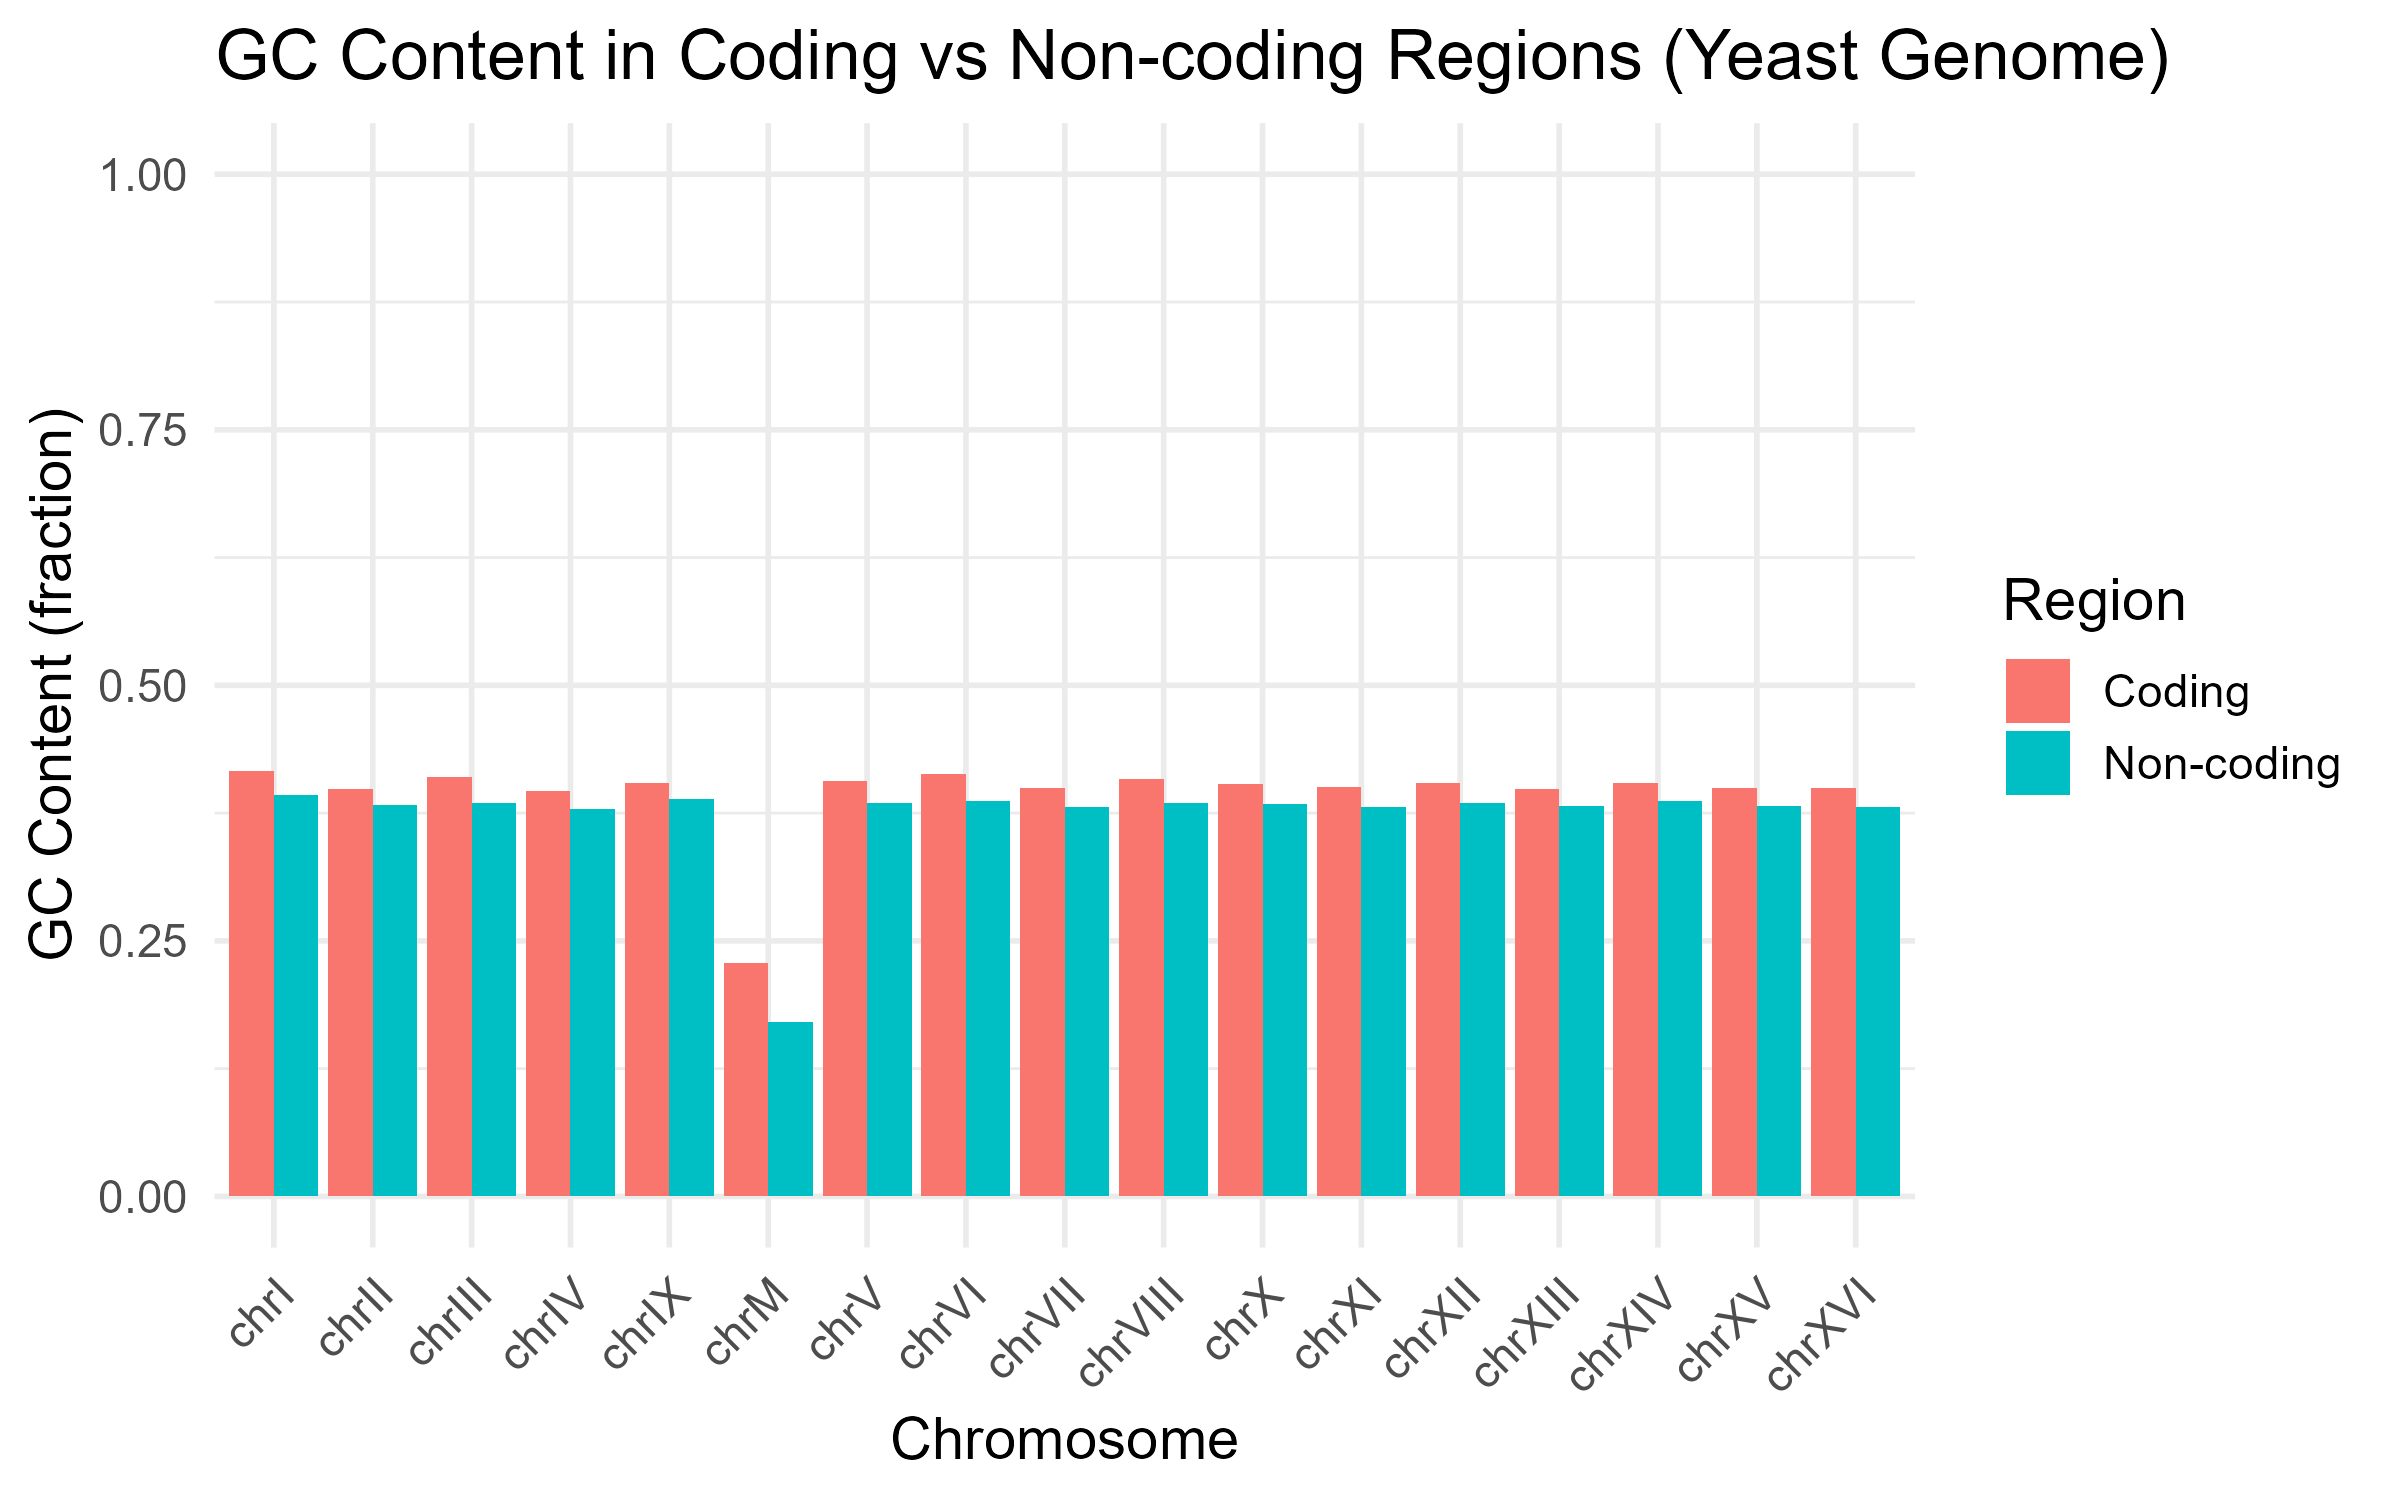
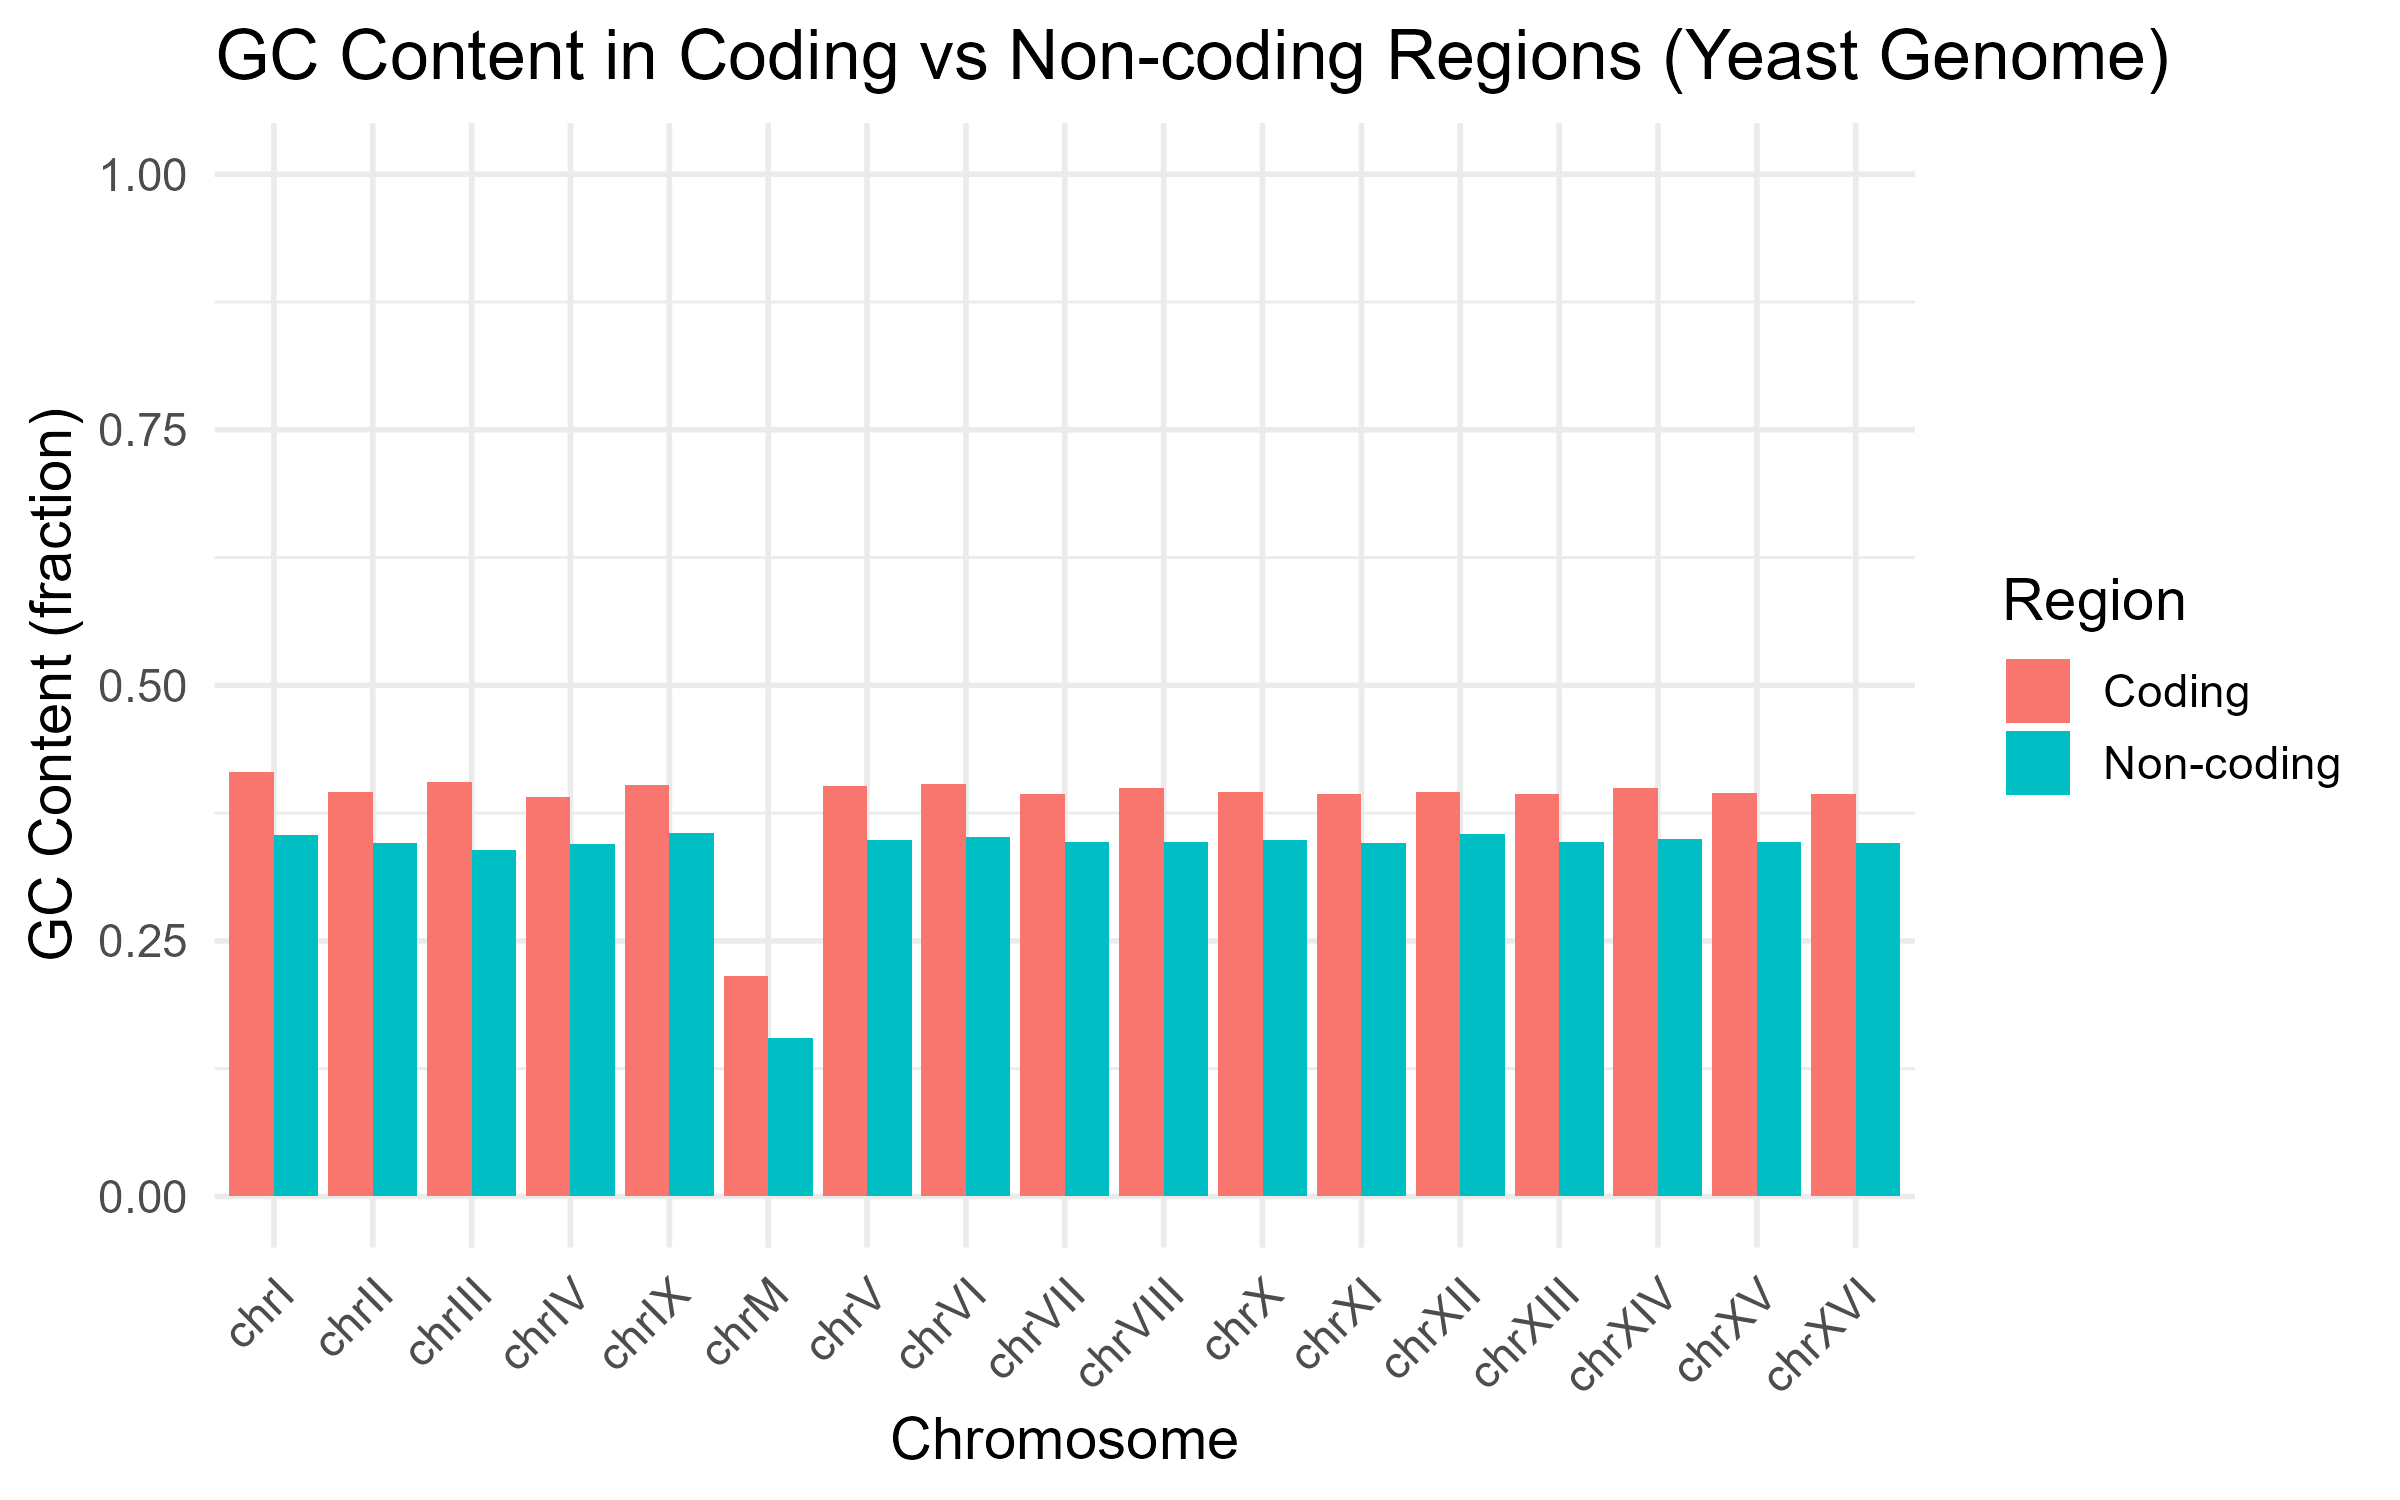
Regenerate results with strand fix (coding = 72.6%)

Changed region(s): [[0.3438, 0.4907, 0.8125, 0.5827], [0.0938, 0.5213, 0.3125, 0.5827], [0.3125, 0.6747, 0.3438, 0.7053]]

diff --git a/README.md b/README.md
@@ -10,7 +10,7 @@ Analysis of the *Saccharomyces cerevisiae* (baker's yeast) genome in R and Bioco
 
 The first version of this analysis (October 2025) contained a bug. The chromosome range had no strand (`*`), while the coding regions (CDS) were stranded (`+`/`-`). `setdiff()` therefore removed nothing, and **"non-coding" was the entire chromosome**. As a result, the first version reported:
 
-- coding DNA as **42.5%** of the genome, which is wrong (the true value is roughly **70%**, consistent with yeast being a gene-dense genome), and
+- coding DNA as **42.5%** of the genome, which is wrong (the corrected value is **72.6%**, consistent with yeast being a gene-dense genome), and
 - "non-coding" GC content that was really the GC content of whole chromosomes.
 
 **The fix** (now in `yeast_genome_analysis.R`):
@@ -51,7 +51,7 @@ GC content is also now weighted by length (total G+C divided by total bases) ins
 <img src="results/GCcontent_genomewide.png" width="500">
 <img src="results/genome_composition_pie.png" width="400">
 
-- **Coding DNA makes up roughly 70% of the yeast genome** (exact value in `genome_composition_pie.png`). Yeast genes are packed closely together, with short spaces between them.
+- **Coding DNA makes up 72.6% of the yeast genome**. Yeast genes are packed closely together, with short spaces between them.
 - **Coding DNA is GC-richer than non-coding DNA** on every nuclear chromosome (coding ≈ 40% GC). This fits the known pattern in yeast, where genes tend to have higher GC content than the DNA between them.
 - **The mitochondrial chromosome (chrM)** has very low GC content (well under 25%), reflecting its separate evolutionary history.
 
